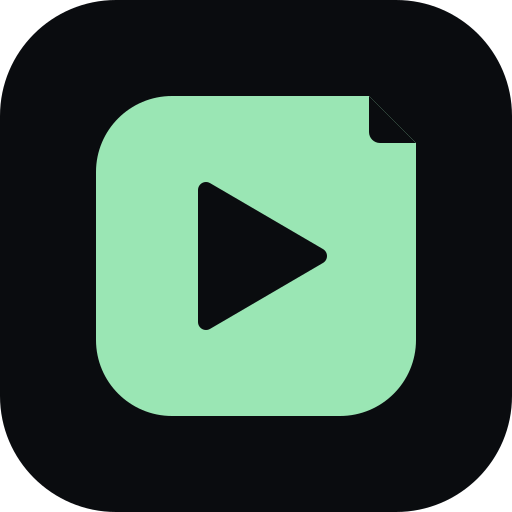
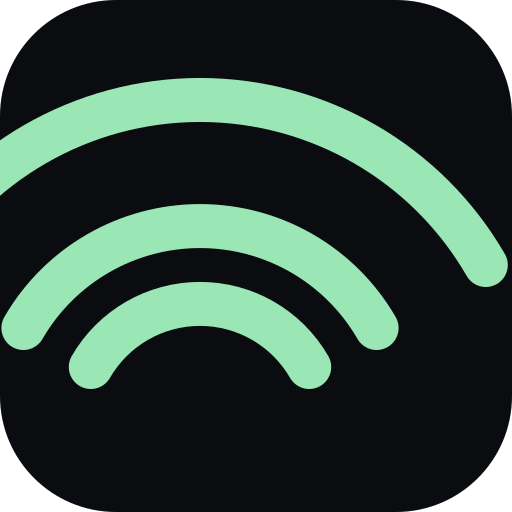
feat(brand): a sound-wave mark, Spotify-inspired, golden radii
Replaces the card mark with three arcs rising like sound waves. It borrows
Spotify's signal as a starting point and keeps the app's identity: near-black
tile, theme accent, and golden-ratio construction instead of their fixed grid.

Radii are R, R/phi, R/phi^2 with equal stroke, anchored lower-left so the wave
bleeds off the tile; a 16 px favicon still reads as rising lines. docs/brand.md
records the construction and the reasons (equal stroke survives scaling where
tapered arcs vanish).

Updated the web SVG/PNG, the adaptive foreground and the notification glyph.

diff --git a/docs/brand.md b/docs/brand.md
@@ -1,41 +1,39 @@
 # The mark
 
-A card with one corner turned, and a play mark cut through it. The card is the
-thing you keep; the play is the thing it does. Everything is one colour, so the
-mark survives a circular launcher mask, a 16 px favicon and a monochrome
-notification icon without a second version.
+Three arcs rising like sound waves — a library that plays. It takes Spotify's
+signal as a reference point and keeps the app's own character: near-black tile,
+the theme accent, and golden-ratio proportions instead of a fixed grid.
 
 ## Construction
 
-Built on a 512 grid with a 320 content box, every part derived from it and φ.
+Built on a 512 grid, anchored lower-left so the wave bleeds off the tile the way
+a real sound mark should.
 
 | Part | Value | Derivation |
 |---|---|---|
-| Card | 320 × 320 | content box |
-| Corner radius | 76 | `320 / φ³` |
-| Turned corner | 47 | `76 / φ` |
-| Fold inner radius | 11 | `47 / φ³` |
-| Play height | 159 | `320 / φ^1.45` |
-| Play stroke | 16 | `47 / φ²`, rounds the triangle's points |
+| Outer radius | 330 | fills the tile |
+| Middle radius | 204 | `330 / φ` |
+| Inner radius | 126 | `330 / φ²` |
+| Stroke | 44 | equal across all three arcs |
+| Arc span | −150° → −30° | 120°, open to the upper-right |
+| Anchor | (200, 430) | lower-left of the content box |
 
-The play is **not** centred in its bounding box: it is nudged right so its mass
-sits at the card's optical centre. A triangle centred by geometry always looks
-like it leans left.
+Equal stroke is deliberate: tapering the inner arcs to `44/φ`, `44/φ²` reads more
+"designed" but the thin arcs vanish below 32 px. Equal weight keeps all three
+waves legible down to a 16 px favicon.
 
 ## Rules the mark follows
 
-1. **One silhouette.** Three shapes, one fill, no strokes, no gradient, no
-   shadows. It reads as a shape, not a picture.
-2. **One colour.** It works on any accent from the six theme families, in black
-   on white, and as a white-on-transparent status-bar glyph.
-3. **Fixed proportions.** Change the size, never the ratios; all values scale
-   from the 320 content box.
-4. **Mask-safe.** The Android foreground keeps its content inside the 66 dp safe
-   circle (`52 / 108` of the canvas), so launchers may crop to a circle, squircle
-   or rounded square without shaving the card.
-5. **Degrades deliberately.** Below 32 px the fold disappears and the mark reads
-   as a card with a play — the small-size version is a simplification of the same
-   shape, not a different logo.
+1. **One colour.** Accent on the near-black tile; the same shape in white for the
+   status-bar glyph and black on white for monochrome use.
+2. **Golden radii.** The three circles are `R`, `R/φ`, `R/φ²`, so the eye reads a
+   harmonic decay rather than arbitrary spacing.
+3. **Bleed is the signature.** The wave is anchored off the tile, which is what
+   makes it a wave and not three rings in a box.
+4. **Scalable.** At 16 px it reads as two or three rising lines; the identity is in
+   the arc gesture, not in fine detail.
+5. **One source of truth.** `apps/web/public/logo.svg`; the Android foreground and
+   the notification glyph are the same geometry scaled to 108 and 24.
 
 ## Files
 
@@ -43,5 +41,4 @@ like it leans left.
 - `apps/web/public/logo.png` — 512 px render for Apple touch icons and docs.
 - `apps/mobile/app/src/main/res/drawable/ic_logo_fg.xml` — adaptive-icon
   foreground, same geometry scaled to 108.
-- `apps/mobile/app/src/main/res/drawable/ic_stat_mm.xml` — status-bar glyph,
-  simplified to one path for 24 dp.
+- `apps/mobile/app/src/main/res/drawable/ic_stat_mm.xml` — status-bar glyph at 24.
